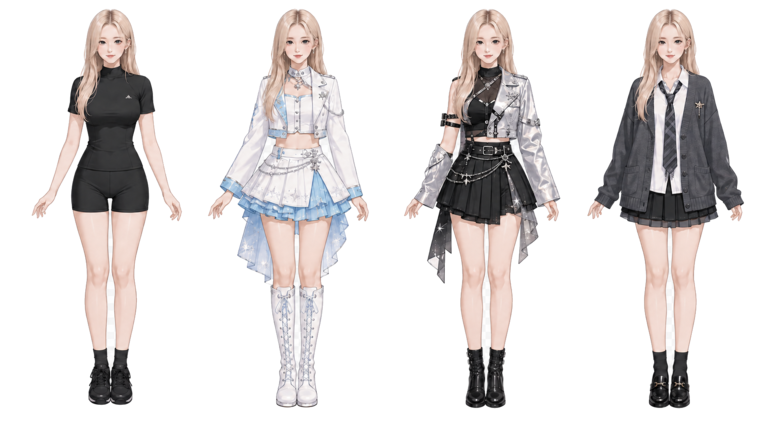
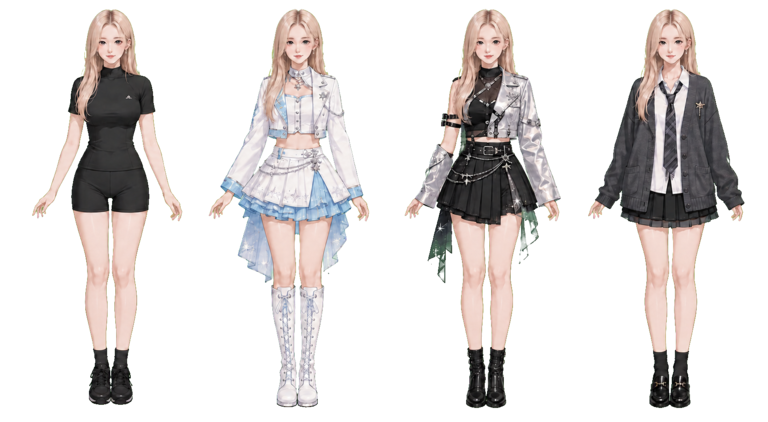
IDOL BASE V2をデフォルト化し共通モーションを追加 (#55)
* feat: animate idol base with shared motions

* fix: remove sprite background artifacts

diff --git a/src/main.ts b/src/main.ts
@@ -75,11 +75,11 @@ let isTestCharacter = true;
 let rig: AtlasCharacterRig | CharacterRig;
 
 try {
-  if (params.get('base') === 'production') {
+  if (params.get('base') !== 'test') {
     isProductionPreview = true;
     rig = await AtlasCharacterRig.create(
       '/data/characters/production-base-v1.json',
-      '/data/motions/phase1.json',
+      '/data/motions/idol-base-v2.json',
     );
   } else {
     rig = await AtlasCharacterRig.create(
@@ -151,7 +151,7 @@ const behaviorLabel = (state: BehaviorState): string => {
 };
 
 const behavior = new BehaviorController(rig, (state) => setStatus(behaviorLabel(state)));
-if (isProductionPreview || params.get('auto') === '0') behavior.setEnabled(false);
+if (params.get('auto') === '0') behavior.setEnabled(false);
 
 const blink = async (): Promise<void> => {
   if (isProductionPreview) return;
@@ -161,7 +161,6 @@ const blink = async (): Promise<void> => {
 };
 
 const playMotion = async (id: string, label: string): Promise<void> => {
-  if (isProductionPreview) return;
   if (!rig.canPlay(id)) {
     setStatus(`${label} NOT AVAILABLE`);
     return;
@@ -172,21 +171,20 @@ const playMotion = async (id: string, label: string): Promise<void> => {
 };
 
 rig.onTap(() => {
-  if (!isProductionPreview) void behavior.onTap();
+  void behavior.onTap();
 });
 blinkButton.addEventListener('click', () => void blink());
 waveButton.addEventListener('click', () => {
-  if (!isProductionPreview) void behavior.onTap();
+  void behavior.onTap();
 });
 heartButton.addEventListener('click', () => void playMotion('motion.heart.001', 'HEART'));
 walkButton.addEventListener('click', () => void playMotion('motion.walk.inplace.001', 'WALK'));
 sitButton.addEventListener('click', () => void playMotion('motion.sit.001', 'SIT'));
 
 blinkButton.disabled = isProductionPreview;
-waveButton.disabled = isProductionPreview;
-heartButton.disabled = isProductionPreview || !rig.canPlay('motion.heart.001');
-walkButton.disabled = isProductionPreview || !rig.canPlay('motion.walk.inplace.001');
-sitButton.disabled = isProductionPreview || !rig.canPlay('motion.sit.001');
+heartButton.disabled = !rig.canPlay('motion.heart.001');
+walkButton.disabled = !rig.canPlay('motion.walk.inplace.001');
+sitButton.disabled = !rig.canPlay('motion.sit.001');
 
 let hiddenAt: number | null = null;
 document.addEventListener('visibilitychange', () => {
@@ -197,19 +195,23 @@ document.addEventListener('visibilitychange', () => {
   if (hiddenAt !== null) {
     const away = Date.now() - hiddenAt;
     hiddenAt = null;
-    if (!isProductionPreview) void behavior.greetAfterAbsence(away);
+    void behavior.greetAfterAbsence(away);
   }
 });
 
 app.ticker.add((ticker: { deltaMS: number }) => {
   rig.update(ticker.deltaMS);
-  if (!isProductionPreview) behavior.update(ticker.deltaMS);
+  behavior.update(ticker.deltaMS);
 });
 
 engineStatus.textContent = 'ENGINE READY';
 setStatus(readyLabel());
 if (isProductionPreview) {
   characterSource.textContent = 'IDOL BASE V2 / FIXED IDENTITY + POSE';
+  waveButton.textContent = '挨拶';
+  heartButton.textContent = 'ファンサ';
+  walkButton.textContent = 'ダンス';
+  sitButton.textContent = 'ポーズ';
 }
 
 let unmountInspector: (() => void) | null = null;

diff --git a/index.html b/index.html
@@ -18,7 +18,7 @@
 
       <nav class="app-nav" aria-label="メインメニュー">
         <a href="/" data-nav="live">LIVE</a>
-        <a href="/?creator=1&auth=1&base=production&auto=0" data-nav="creator">CREATE</a>
+        <a href="/?creator=1&auth=1" data-nav="creator">CREATE</a>
         <a href="/?profile=1&auth=1" data-nav="profile">PROFILE</a>
         <a href="/?share=1" data-nav="share">SHARE</a>
       </nav>

diff --git a/docs/idol-base-v2.md b/docs/idol-base-v2.md
@@ -27,3 +27,17 @@ After approval, the fixed rehearsal frame becomes the registration standard for 
 6. accessories and secondary motion
 
 This preserves the product contract (one fixed pseudo-idol whose clothing changes) without pretending that a composite sprite is already a production rig.
+
+## Whole-character motion gate
+
+The approved fixed look can now use a dedicated motion catalog before limb extraction. The first motion pass animates the `pelvis` container, so every outfit shares the same safe transforms without tearing seams:
+
+- ambient breathing and sway
+- greeting bounce
+- short dance step
+- fan-service reaction
+- compact pose reaction
+
+Arm-specific waving, blinking, and expression changes remain disabled until their raster layers are separated.
+
+IDOL BASE V2 is now the default LIVE/CREATE character. The former technical test character remains available only with `?base=test`.
